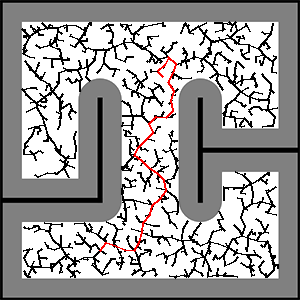
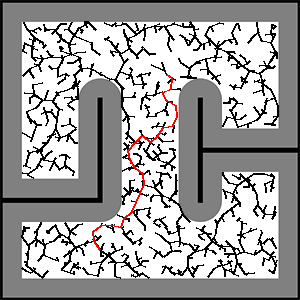
need to get ending  point more precise

Changed region(s): [[0.06, 0.06, 0.93, 0.93]]

diff --git a/finalproject.py b/finalproject.py
@@ -145,7 +145,7 @@ class Run:
                 distance = math.sqrt(math.pow(goal_x - self.odometry.x, 2) + math.pow(goal_y - self.odometry.y, 2))
                 output_distance = self.pidDistance.update(0, distance, self.time.time())
                 self.create.drive_direct(int(output_theta + output_distance), int(-output_theta + output_distance))
-                if distance < 0.02:
+                if distance < 0.009:
                     break
 
     def go_to_angle(self, goal_theta):
@@ -211,6 +211,13 @@ class Run:
             self.time.sleep(5)
             self.arm.open_gripper()
             self.time.sleep(10)
+        else:
+            self.goFromZero(2, math.pi / 2, 100)
+            self.goFromZero(3, -math.pi / 1.78, 100)
+            self.goToFrom(2, math.pi / 2, math.pi / 5, 100)
+            self.time.sleep(5)
+            self.arm.open_gripper()
+            self.time.sleep(10)
 
     def run(self):
         self.create.start()
@@ -267,7 +274,7 @@ class Run:
         self.odometry.x = 1
         self.odometry.y = .5
         self.odometry.theta = 0
-        base_speed = 50
+        base_speed = 100
 
         for p in path:
             goal_x = p.state[0] / 100.0
@@ -288,8 +295,9 @@ class Run:
                     self.create.drive_direct(int(output_theta + output_distance), int(-output_theta + output_distance))
                     if distance < 0.05:
                         break
-        self.goto([[1.58,2.51]])
-        self.go_to_angle(math.pi/2)
+                        
+        self.goto([[1.654,2.420]])
+        self.go_to_angle(-.2)
         self.time.sleep(5)
 
         self.pickUpCup()
